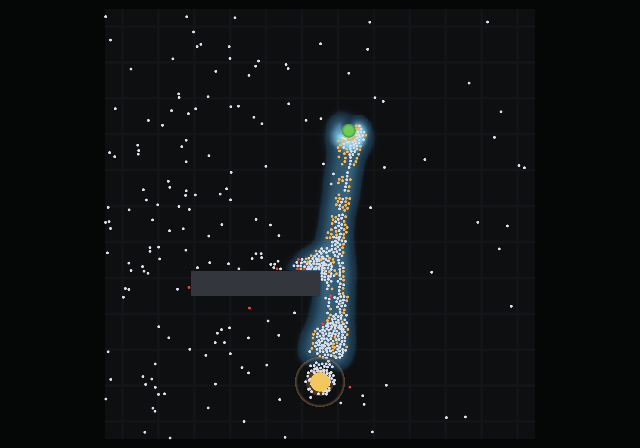
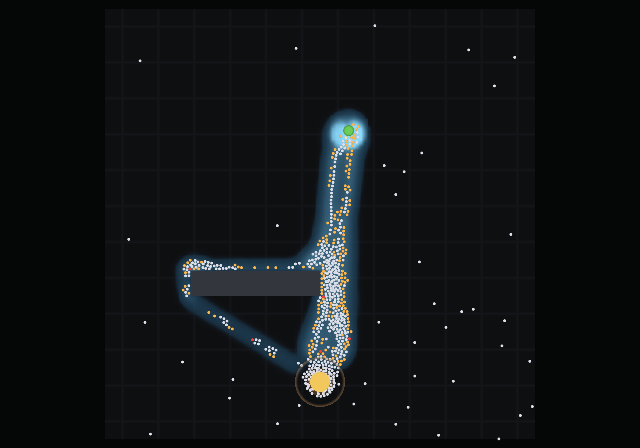
Regenerate the gallery after the homing fix
Ants that no longer die on walls change the whole trajectory of the
foraging run, so every figure the README quotes moved: the 5-minute
trail 73 610 -> 78 263, the trail at the moment the source empties
79 838 -> 91 580, and the three collapse frames 747/773/793 -> 750/782/811.
The source now runs out a minute earlier, at 23, because more of it is
actually being carried home.

The README asserts that every image is generated by `make gallery` from
a fixed seed, which is only worth asserting if it is kept true.

Changed region(s): [[0.25, 0.2188, 0.5938, 0.9062]]

diff --git a/README.md b/README.md
@@ -225,8 +225,8 @@ nest. That is the first ants home, laying the first pheromone.
 ![Forty seconds: the first thread](docs/images/01-searching.png)
 
 By **5 minutes** that thread has become a road — in fact two of them, which is
-the frame [above](#what-emerges). The total is 73 610 and the population has
-grown from 150 to 267: the first turn of the loop that drives everything after
+the frame [above](#what-emerges). The total is 78 263 and the population has
+grown from 150 to 266: the first turn of the loop that drives everything after
 it, where food comes in, workers are made, and more workers thicken the trail.
 
 Everything in the pictures above grew from those first ants, by the ants' own
@@ -235,12 +235,12 @@ stronger is stronger.
 
 ## How it ends
 
-The source in this scenario is finite, and it runs out after **24 minutes**.
+The source in this scenario is finite, and it runs out after **23 minutes**.
 What happens over the next six is the part worth watching.
 
 ### The road outlives the source
 
-At the moment the source empties, the trail is at full strength — 79 838 units
+At the moment the source empties, the trail is at full strength — 91 580 units
 — and the colony is still pouring ants onto it.
 
 ![The source has just run out](docs/images/09-abandoned.png)
@@ -250,20 +250,20 @@ whatever pheromone is in front of it; an ant deposits only when it is carrying
 food. So the traffic continues and the renewal stops, and evaporation starts
 taking the road out from under the ants still walking it.
 
-**Two minutes later** the trail is down to 10 805 — 86% gone — and the ants are
+**Two minutes later** the trail is down to 12 426 — 86% gone — and the ants are
 still packed along the line where it was, including a knot where the food used
 to be. Not one of them is orange, because there is nothing left to carry.
 
 ![Two minutes on: walking a road that is dissolving](docs/images/10-fading.png)
 
-**Six minutes** and it is 198, from 79 838. The structure is simply gone, and
+**Six minutes** and it is 228, from 91 580. The structure is simply gone, and
 with it every trace of where the food had been. The colony disperses back into
 the random walk it started with — and the red ants are the ones that no longer
 have the reserve to try again.
 
 ![Six minutes on: nothing left](docs/images/11-collapsed.png)
 
-The population is *rising* through all three frames — 747, 773, 793 — because
+The population is *rising* through all three frames — 750, 782, 811 — because
 the colony is still converting its stored food into workers while its road
 dissolves. It is at its largest a few minutes after it has already lost.
 
